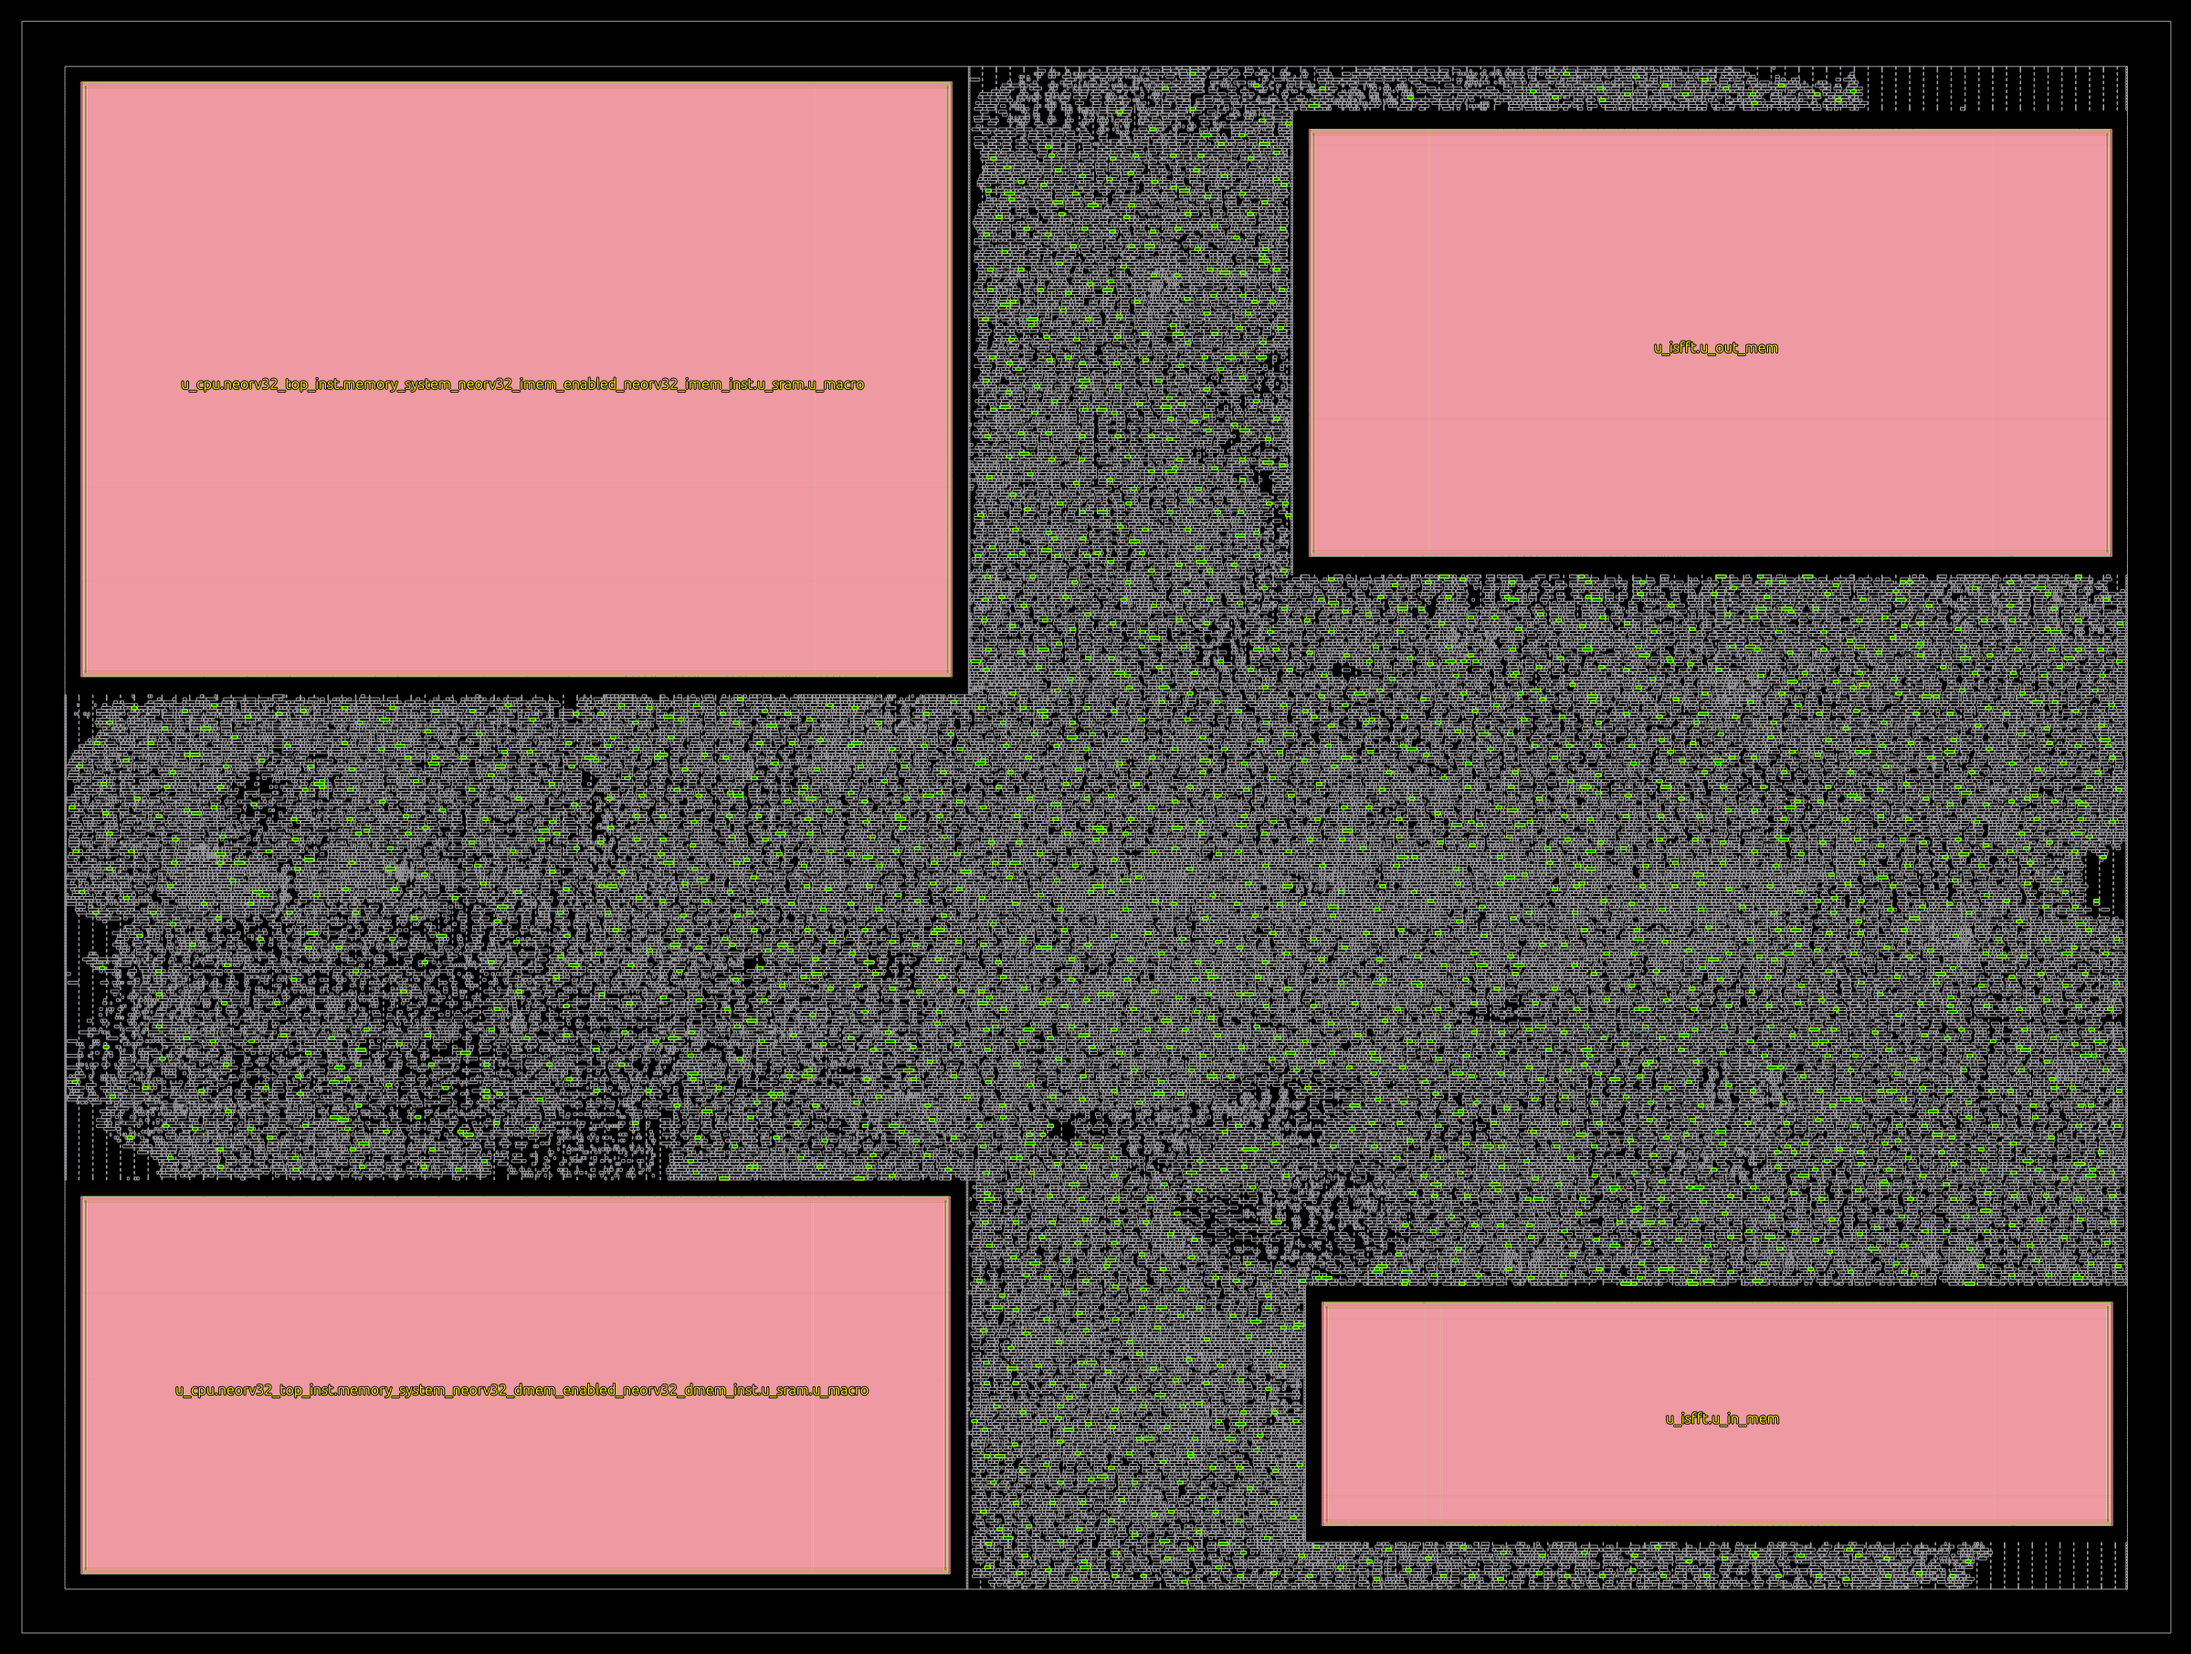
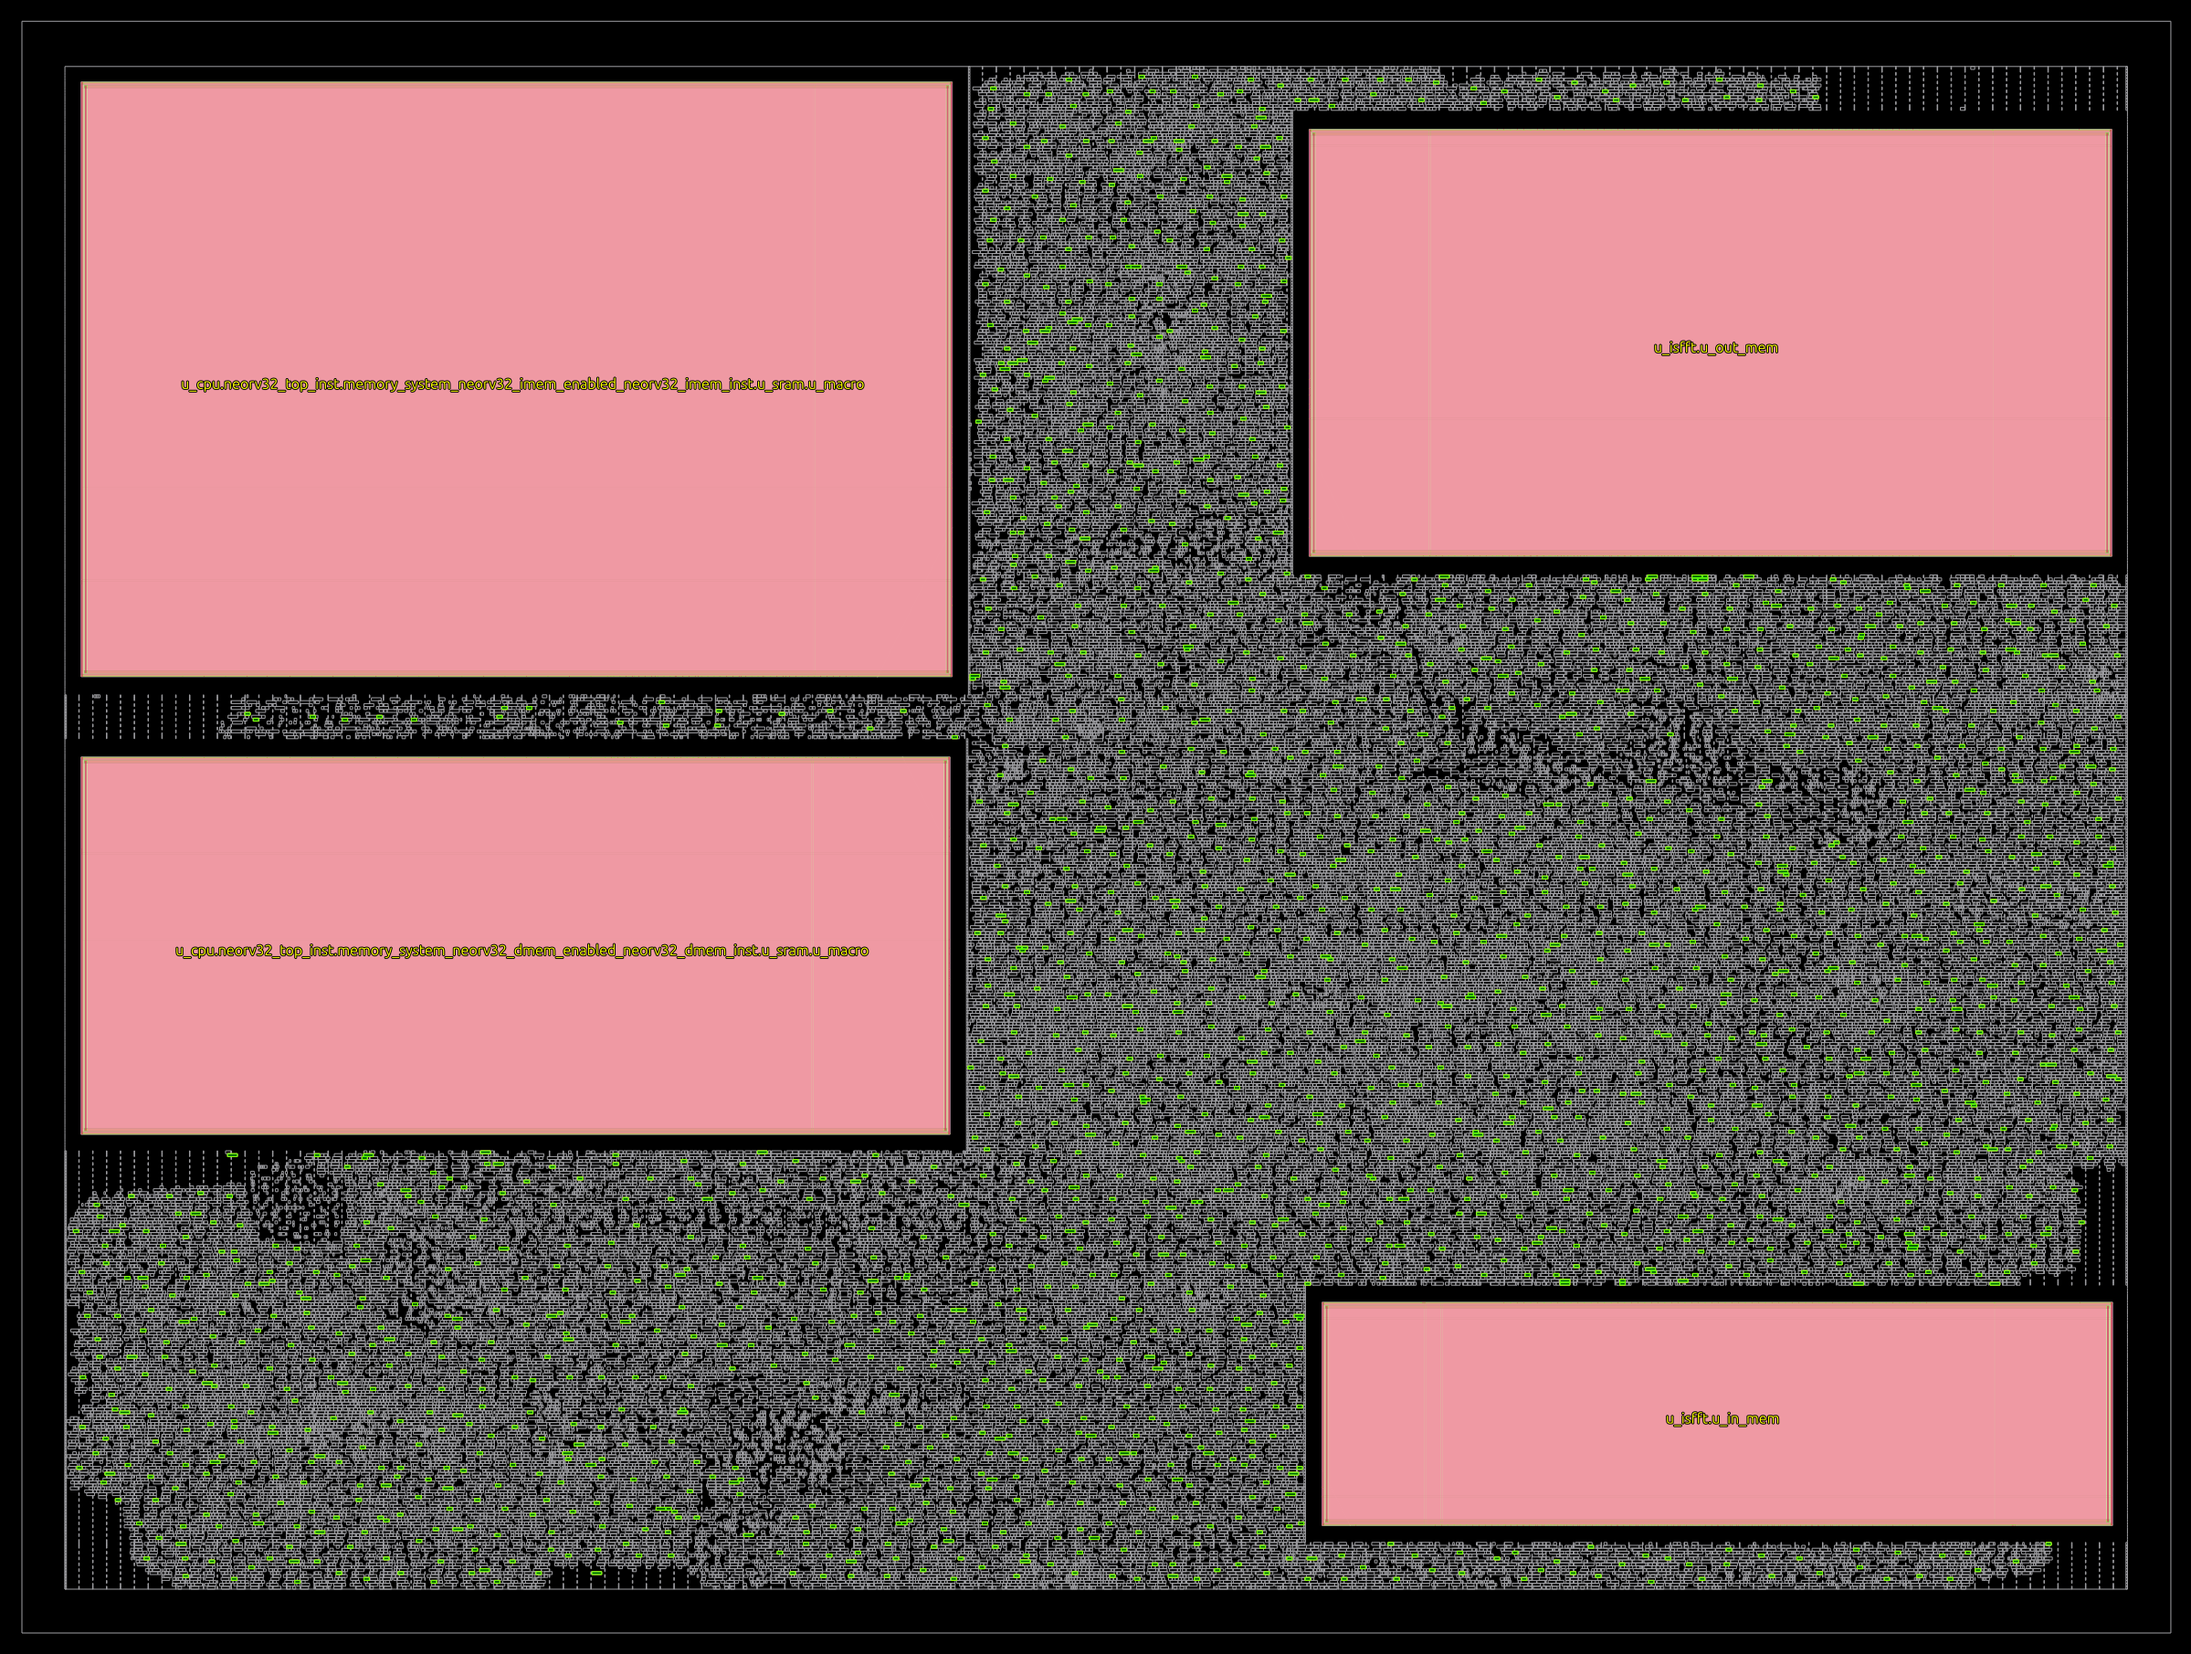
gdsii: GRT sem overflow com a L31 (fio -14%); reparo de slew pos-GRT ligado (L32); imagens antes/depois da L31 no lugar certo
Claude-Session: https://claude.ai/code/session_01JLbumgH3LJioAPGBnd6Ux6

diff --git a/DIARIO_GDSII.md b/DIARIO_GDSII.md
@@ -1948,6 +1948,132 @@ Conferir nas imagens do 02 a DMEM no canto e o canal largo; no 03, 0
 
 ---
 
+## 2026-10-06 (21ª sessão) — ✅ Roteamento global sem excesso com a L31
+
+Rodada `2026-09-30_0934`, passos `67-…` a `97-…` (etapas 2 a 6-global
+refeitas com a DMEM no canto). Fontes: `06_roteamento_global.txt`,
+`06_roteamento_global_metricas.json`, `logs_2026-10-06_1500.tar.gz`,
+imagens `06_roteamento_global_*` (commit `4d00d69`).
+
+### Roteamento global (passo 93)
+
+| Camada | Uso das trilhas | Excesso | Antes da L31 (passo 66) |
+|---|---|---|---|
+| met1 | 52,8 % | **0** | 359 |
+| met2 | 53,2 % | **0** | 939 |
+| met3 | 44,9 % | **0** | 157 |
+| met4 | 29,9 % | **0** | 339 |
+| met5 | 27,0 % | **0** | 244 |
+| **Total** | **47,2 %** (era 55,5 %) | **0** (era 2.038) | |
+
+| Item | Antes da L31 | Depois | Fonte |
+|---|---|---|---|
+| Fio estimado | 6,38 m | **5,48 m** (−14 %) | `GRT-0018` |
+| Vias | — | 663.981 | `GRT-0111` |
+| Redes roteadas | 77.227 | 77.124 | `GRT-0014` |
+| Tempo do GRT | — | 2 min 10 s | `runtime.txt` |
+
+O fio encurtou 14 %: a lógica da CPU, agora entre as duas memórias, fica
+perto dos pinos que usa. O mapa de calor (`06_roteamento_global_congestao.png`)
+não mostra mais nada sobre as macros; o mais quente é uma faixa horizontal
+no meio do chip, entre o canal IMEM/DMEM e a lógica da ISFFT, sem excesso.
+**Vira slide?** Sim: `antes_L31/06_congestao_mapa.png` ×
+`06_roteamento_global_congestao.png`.
+
+A estimativa do posicionador (RUDY, `GPL-0043`) continuou em ~1,18–1,22 e
+"could not reach target" (`GPL-0089`), e mesmo assim o GRT fechou sem
+excesso: a estimativa não enxerga as macros como parede, que era o
+problema real. Lição: o veredito é o GRT.
+
+### Antenas (passos 94–96)
+
+| Momento | Violações | Fonte |
+|---|---|---|
+| Checagem depois do GRT (94) | 804 redes / 1.006 pinos | `ANT-0001/0002` |
+| Reparo com diodo `diode_2` (96), iterações | 195 → 18 → 12 → 1 | `GRT-0012` |
+| Checagem final do 96 | **0 / 0** | `ANT-0001/0002` |
+
+O reparo de antena (6 min 56 s) foi o passo mais demorado do trecho.
+
+### Etapas 2–5 refeitas (conferência rápida)
+
+| Item | Valor | Fonte |
+|---|---|---|
+| PDN | "All shapes … connected" nas duas redes | `PSM-0040`, passo 75 |
+| Densidade alvo | 0,65 | `GPL-0023`, passo 82 |
+| Buffers de reparo pós-posicionamento | 12.640 em 1.968 redes | `RSZ-0038`, passo 86 |
+| Buffers de relógio | 3 + 2.089 | `CTS-0018`, passo 89 |
+| Reparo pós-CTS | sem violação de setup; 382 pontos de hold, 383 buffers | `RSZ-0098/0046/0032`, passo 91 |
+
+### Timing com o fio do roteamento global (STA, passo 97, TT)
+
+| Métrica | Fim da CTS (92) | Com o fio do GRT (97) | Fonte |
+|---|---|---|---|
+| Setup WS | +1,57 ns | **+1,13 ns**, 0 violações | métricas |
+| Hold WS | +0,099 ns | **+0,088 ns**, 0 violações | idem |
+| Skew de setup | — | 0,72 ns | idem |
+| Utilização das células | 0,598 | 0,600 | idem |
+
+### ⚠ Transição e capacitância com o fio real: 230 e 11 no TT
+
+Com o fio do GRT (antes era fio estimado pela distância), a checagem de
+transição (`97-…/checks.rpt`) acusa 230 pinos:
+
+| Origem | Pinos | Exemplo |
+|---|---|---|
+| Pinos de entrada das macros (o limite de 40 ps do `.lib` da OpenRAM, L28) | 67 | — |
+| **Células da ISFFT** | **163** | `u_isfft.inst_isfft_matriz.g247863/B2`: 3,35 ns, limite 0,75 ns |
+
+E 11 de capacitância (saídas de células da ISFFT e alguns `dout` das
+macros). As 163 são **reais**: redes com fio longo que só agora apareceram.
+O passo que repara isso com o fio do GRT, `OpenROAD.RepairDesignPostGRT`,
+estava **desligado** (`RUN_POST_GRT_DESIGN_REPAIR`, padrão `false` no
+`classic.py`, marcado como "experimental"). Por isso o trecho só teve 5
+passos (93–97): `RepairDesignPostGRT`, `HeuristicDiodeInsertion` e
+`ResizerTimingPostGRT` estão atrás de chaves desligadas.
+
+**Decisão (L32):** `"RUN_POST_GRT_DESIGN_REPAIR": true`. Custa refazer o
+roteamento global (~12 min com antenas) antes do detalhado. Se travar
+(o LibreLane avisa que pode), voltar para `false` e tratar a transição
+depois do roteamento detalhado. `RUN_POST_GRT_RESIZER_TIMING` fica
+desligado: o setup do TT já fecha com +1,13 ns.
+
+### 🐛 Imagens trocadas no rebase
+
+**Sintoma:** depois do `git pull --rebase`, as imagens **novas** do 02 ao
+05 (DMEM no canto) apareceram dentro de `imagens/antes_L31/`, por cima
+das antigas, e `imagens/` ficou sem elas.
+**Causa:** o meu commit tinha **movido** as imagens para `antes_L31/`; o
+do Lukas **modificava** os mesmos nomes. O git detecta o movimento e
+aplica a modificação no caminho novo — sem conflito, sem aviso.
+**Resolvi com:** as novas tiradas do commit `4d00d69` de volta para
+`imagens/`; as antigas tiradas do `ebcc2c8` de volta para `antes_L31/`
+(conferido: a planta antiga é idêntica, byte a byte, à de 30/09).
+**Lição:** antes de refazer etapas, guardar o "antes" por **cópia** no
+mesmo commit em que o Lukas sobe as novas, ou pedir para ele copiar
+antes de rodar.
+**Vira slide?** Não.
+
+### Para continuar
+
+```bash
+git pull
+bash layout/nucleo/06_roteamento.sh       # sem ATE_GLOBAL: global de novo (com o reparo) + detalhado
+bash layout/nucleo/junta_logs.sh          # e o git add/commit que ele imprime
+```
+O detalhado (TritonRoute) é o passo mais longo do fluxo: dezenas de
+minutos a algumas horas com 4 núcleos. Critério: `Number of violations = 0`
+na última iteração, e `Checker.TrDRC` sem erro.
+
+### Decisões desta sessão
+
+| # | Decisão | Status | Motivo |
+|---|---|---|---|
+| L31 | DMEM no canto | 🟡 funcionou: excesso 2.038 → 0, fio −14 % | — |
+| L32 | Reparo de transição/capacitância depois do GRT (`RUN_POST_GRT_DESIGN_REPAIR`) | 🟡 | 163 pinos de células com transição de até 3,35 ns (limite 0,75) com o fio do GRT |
+
+---
+
 ## Índice de decisões
 
 | # | Resumo | Status | Data |
@@ -1982,7 +2108,8 @@ Conferir nas imagens do 02 a DMEM no canto e o canal largo; no 03, 0
 | L28 | Fanout do relógio e transição das macros aceitos | 🟡 | 2026-10-05 |
 | L29 | Densidade alvo 65 % (a automática contava as macros) | 🟡 ajudou, não basta | 2026-10-05 |
 | L30 | Diagnóstico da congestão fora do fluxo (`diag_congestao.sh`) | ✅ | 2026-10-06 |
-| L31 | DMEM no canto (55; 55): canal IMEM/DMEM de 453,7 µm | 🟡 | 2026-10-06 |
+| L31 | DMEM no canto (55; 55): canal IMEM/DMEM de 453,7 µm | 🟡 funcionou (GRT sem excesso) | 2026-10-06 |
+| L32 | `RUN_POST_GRT_DESIGN_REPAIR` ligado | 🟡 | 2026-10-06 |
 
 ---
 
@@ -2000,7 +2127,8 @@ Conferir nas imagens do 02 a DMEM no canto e o canal largo; no 03, 0
 - [x] ~~Rodar a etapa 5 (CTS)~~ — passou com a L26 (17ª sessão)
 - [x] ~~Refazer 4 → 5 → 6 com a L29~~ — excesso 4.682 → 2.038 (19ª sessão)
 - [x] ~~Rodar `diag_congestao.sh`~~ — 94 % do excesso nas macros da CPU (20ª sessão)
-- [ ] Refazer 2 → 6 (global) com a L31
+- [x] ~~Refazer 2 → 6 (global) com a L31~~ — 0 de excesso (21ª sessão)
+- [ ] Etapa 6 completa: global com reparo (L32) + roteamento detalhado
 - [ ] Decidir L27 (hold no FF) com o STA final
 - [x] ~~VM: síntese com L20~~ — 12ª sessão, tudo passou
 - [x] ~~Refazer a etapa 1 com o netlist de 29/09~~ — rodada `2026-09-30_0934`
